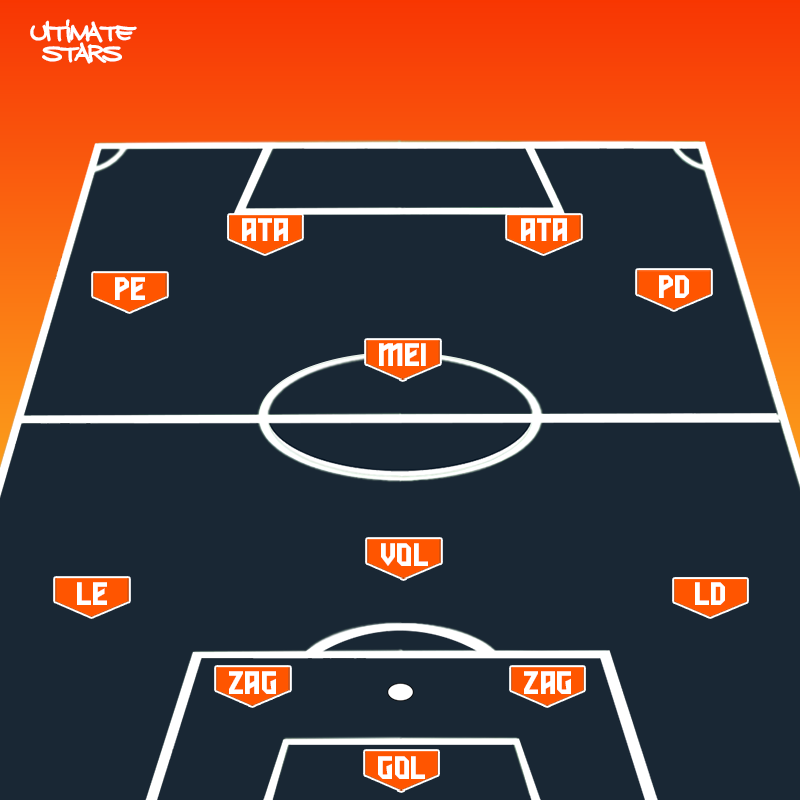
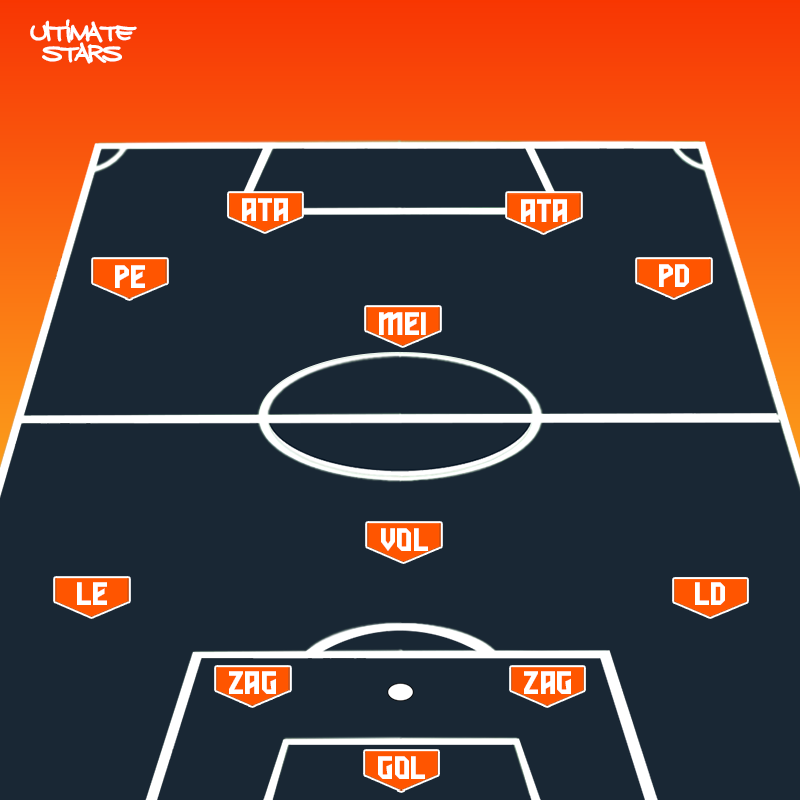
4-2-4

diff --git a/api/generate.js b/api/generate.js
@@ -13,10 +13,10 @@ const formations = {
   '4-3-3': {
     fieldImage: '433.png',
     positions: [
-      { top: 578, left: 327 }, { top: 494, left: 178 }, { top: 494, left: 471 },
-      { top: 406, left: 636 }, { top: 405, left: 18 }, { top: 334, left: 327 },
-      { top: 241, left: 469 }, { top: 181, left: 195 }, { top: 77, left: 56 },
-      { top: 38, left: 327 }, { top: 78, left: 596 },
+      { top: 588, left: 332 }, { top: 504, left: 183 }, { top: 504, left: 478 },
+      { top: 416, left: 641 }, { top: 415, left: 22 }, { top: 344, left: 332 },
+      { top: 251, left: 474 }, { top: 191, left: 200 }, { top: 87, left: 61 },
+      { top: 48, left: 332 }, { top: 88, left: 601 },
     ]
   },
   '4-3-3B': {
@@ -31,13 +31,23 @@ const formations = {
   '4-2-4': {
     fieldImage: '424.png',
     positions: [
-      { top: 578, left: 327 }, { top: 494, left: 178 }, { top: 494, left: 471 },
-      { top: 406, left: 636 }, { top: 405, left: 18 }, { top: 334, left: 327 },
-      { top: 241, left: 469 }, { top: 181, left: 195 }, { top: 77, left: 56 },
-      { top: 38, left: 327 }, { top: 78, left: 596 },
+      { top: 588, left: 332 },
+      { top: 504, left: 183 }, { top: 504, left: 478 }, { top: 416, left: 641 }, { top: 415, left: 22 },
+      { top: 360, left: 334 }, { top: 146, left: 334 }, 
+      { top: 97, left: 60 }, { top: 32, left: 196 }, { top: 32, left: 475 }, { top: 97, left: 605 },
     ]
   },
 };
+/*
+'4-2-4': [
+  'goleiro',
+  'zagueiros.0', 'zagueiros.1',
+  'laterais.direito', 'laterais.esquerdo',
+  'volante.0',
+  'atacantes.meiaAtacante.0',
+  'atacantes.pontaEsquerda', 'atacantes.centroavante.0', 'atacantes.centroavante.1', 'atacantes.pontaDireita',
+],
+*/
 
 app.get('/api/generate', async (req, res) => {
   try {
@@ -67,7 +77,7 @@ app.get('/api/generate', async (req, res) => {
       if (!fs.existsSync(imagePath)) return null;
 
       const buffer = await sharp(imagePath)
-        .resize(150, 175)
+        .resize(140, 165)
         .toBuffer();
       return { input: buffer, top: formation.positions[index].top, left: formation.positions[index].left };
     };
